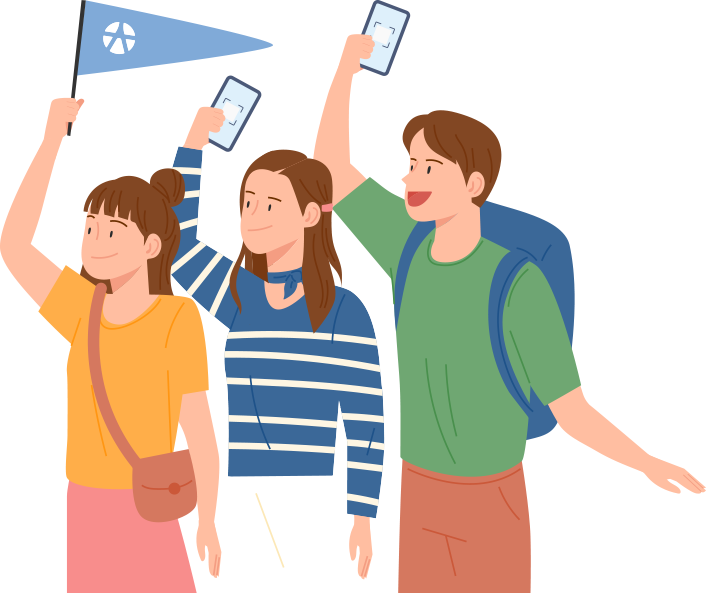
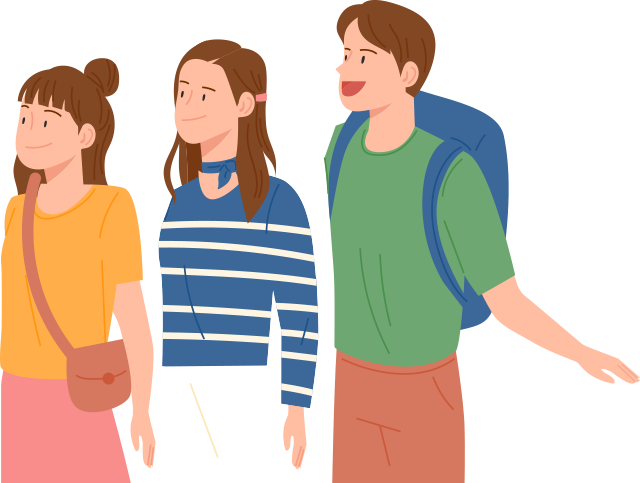
0704

diff --git a/pluspay/assets/css/main.css b/pluspay/assets/css/main.css
@@ -15,8 +15,12 @@ img{margin: 0; padding: 0; display: block;}
 .kv .title{width: 50%; margin: 0 auto; padding-top: 1.5%;}
 .kv .title .kv_tit{width: 100%;}
 .kv .title .kv_subtit{width: 80%; margin: 0 auto;}
-.kv .people{width: 28%; position: absolute; bottom: 0; left: 45%;}
-.kv .kv_logo{width: 26%; position: absolute; bottom: -3%; left: 37%;}
+.kv .peopleAll{width: 26.8%; position: absolute; top: 49.9%; left: 47%;}
+.kv .peopleAll .people{width: 100%; position: relative;}
+.kv .peopleAll .girlflag{width: 40%; position: absolute; left: -12%; top: -17%; -webkit-animation: sway 1.5s infinite ease-in-out; animation: sway 1.5s infinite ease-in-out; transform-origin: right bottom;}
+.kv .peopleAll .girlphone{width: 19%; position: absolute; left: 15%; top: -4%; -webkit-animation: sway 1.5s infinite ease-in-out; animation: sway 1.5s infinite ease-in-out; transform-origin: right bottom;}
+.kv .peopleAll .boyphone{width: 22%; position: absolute; left: 38%; top: -19%; -webkit-animation: sway 1.5s infinite ease-in-out; animation: sway 1.5s infinite ease-in-out; transform-origin: right bottom;}
+.kv .kv_logo{width: 26%; position: absolute; bottom: -4%; left: 37%;}
 .mobOnly{display: none;}
 /* content */
 .content_container{ width: 100%; margin: 5% auto; background: url("../images/ribbon.png") center top no-repeat; background-size: 100% auto; color: #333333;}
@@ -90,10 +94,8 @@ img{margin: 0; padding: 0; display: block;}
 .notice_all ul>li>ol>li{position:relative;counter-increment:section}
 .notice_all ul>li>ol>li::before{content:"(" counter(section,decimal) ")";position:absolute;top:0;left:-5px;-webkit-transform:translateX(-100%);transform:translateX(-100%)}
 
-#contTab{
-    display: none;}
-.content-more{
-    display: none;
+#contTab{display: none;}
+.content-more{display: none;
 }
 #contTab:checked ~ #cont{
     max-height: 180px;
@@ -141,9 +143,9 @@ img{margin: 0; padding: 0; display: block;}
 .main{background: #feefd4 url("../images/kv_bg_line_m.png") center top repeat-y; background-size: 100% auto;}
 /* kv */
 .kv{width: 100%; height: 0; padding-bottom: 126%; margin: 0 auto; background: url("../images/kv_bg_m.png") center top no-repeat; background-size: 100% auto;}
-.kv .title{width: 88%; padding-top: 6.5%;}
+.kv .title{width: 92%; padding-top: 5%;}
 .kv .title .kv_subtit{width: 65%; padding-top: 3%;}
-.kv .people{width: 77%; left: 19%;}
+.kv .peopleAll{width: 70%; top: 58%; left: 24%;}
 .kv .kv_logo{width: 70%; bottom: -7%; left: 15%;}
 .webOnly{display: none;}
 .mobOnly{display: block;}
@@ -203,7 +205,7 @@ img{margin: 0; padding: 0; display: block;}
 /* event */
 .event{width: 86%; padding: 7%;}
 .event_tit img{width: 44px; margin-right: 10px;}
-.event_tit span{font-size: 24px;}
+.event_tit span{font-size: 22px;}
 .event_txt{font-size: 17px; padding:0 8%;}
 .s_line{width: 100%; margin: 10% auto;}
 .action-item{max-width:220px;margin:auto;}
@@ -217,6 +219,10 @@ img{margin: 0; padding: 0; display: block;}
 }
 
 /* animation */
+@keyframes sway{
+0%,100% {transform:rotate(-3deg);}
+    50% {transform:rotate(3deg);}
+}
 @keyframes move{
   0%,100%{-webkit-transform:translate(0,0);transform:translate(0,0);}
       50%{-webkit-transform:translate(0,7%);transform:translate(0,7%);}

diff --git a/pluspay/index.html b/pluspay/index.html
@@ -77,7 +77,12 @@
                             <img class="mobOnly" src="assets/images/kv_subtit_m.png" alt="全盈+PAY連結元大帳戶享回饋金100元">
                         </div>
                     </div>
-                    <div class="people"><img src="assets/images/people.png" alt=""></div>
+                    <div class="peopleAll">
+                        <img class="girlflag" src="assets/images/girlflag.png" alt="">
+                        <img class="girlphone" src="assets/images/girlphone.png" alt="">
+                        <img class="boyphone" src="assets/images/boyphone.png" alt="">
+                        <img class="people" src="assets/images/people.png" alt="">
+                    </div>
                     <div class="kv_logo"><img src="assets/images/kv_logo.png" alt="元大銀行 X 全盈+PAY"></div>
                 </div>
             </section>
